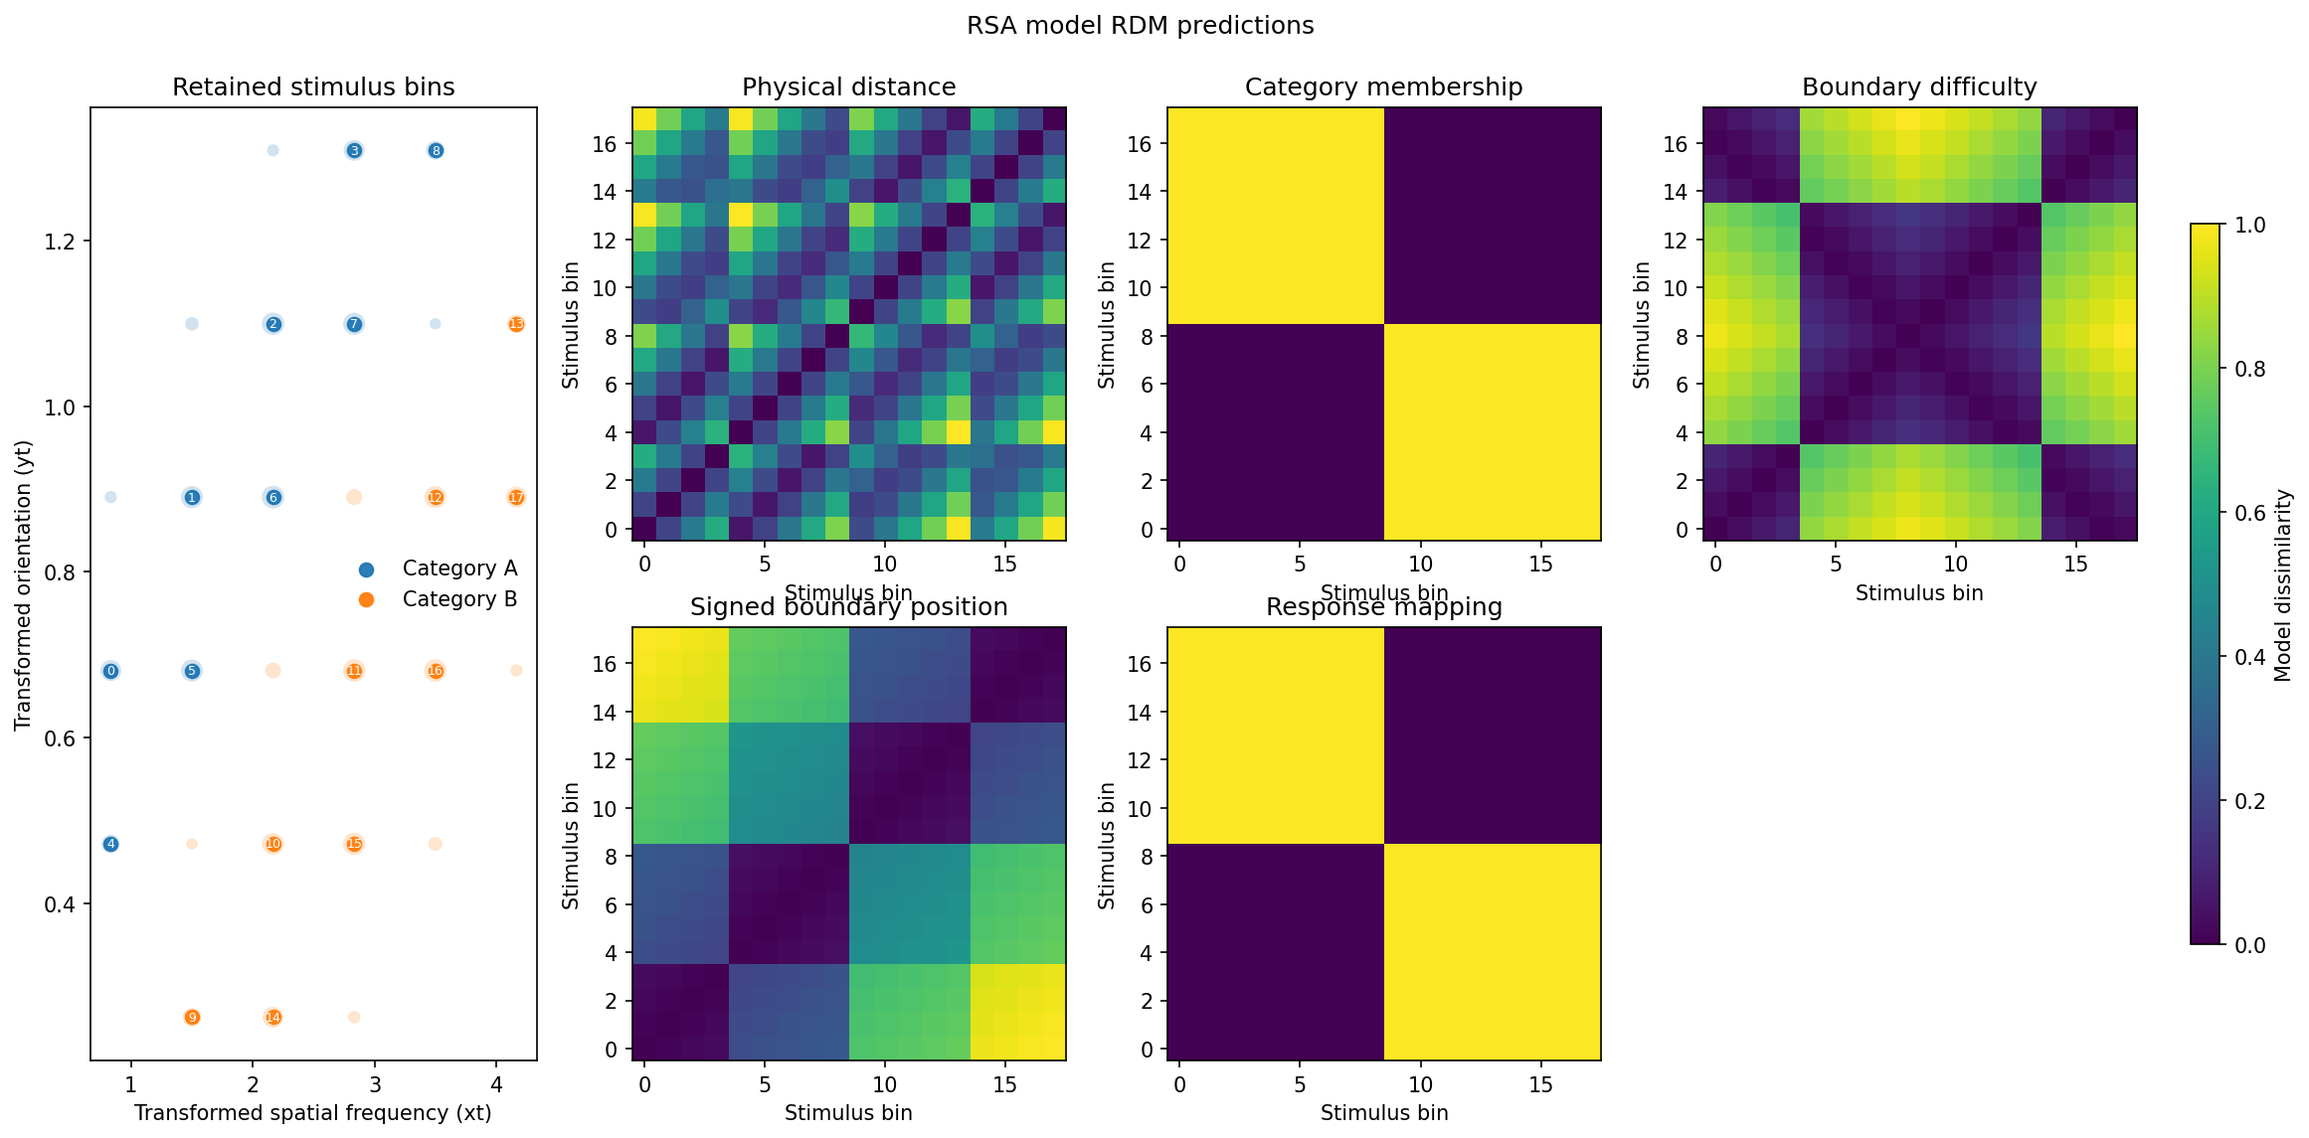
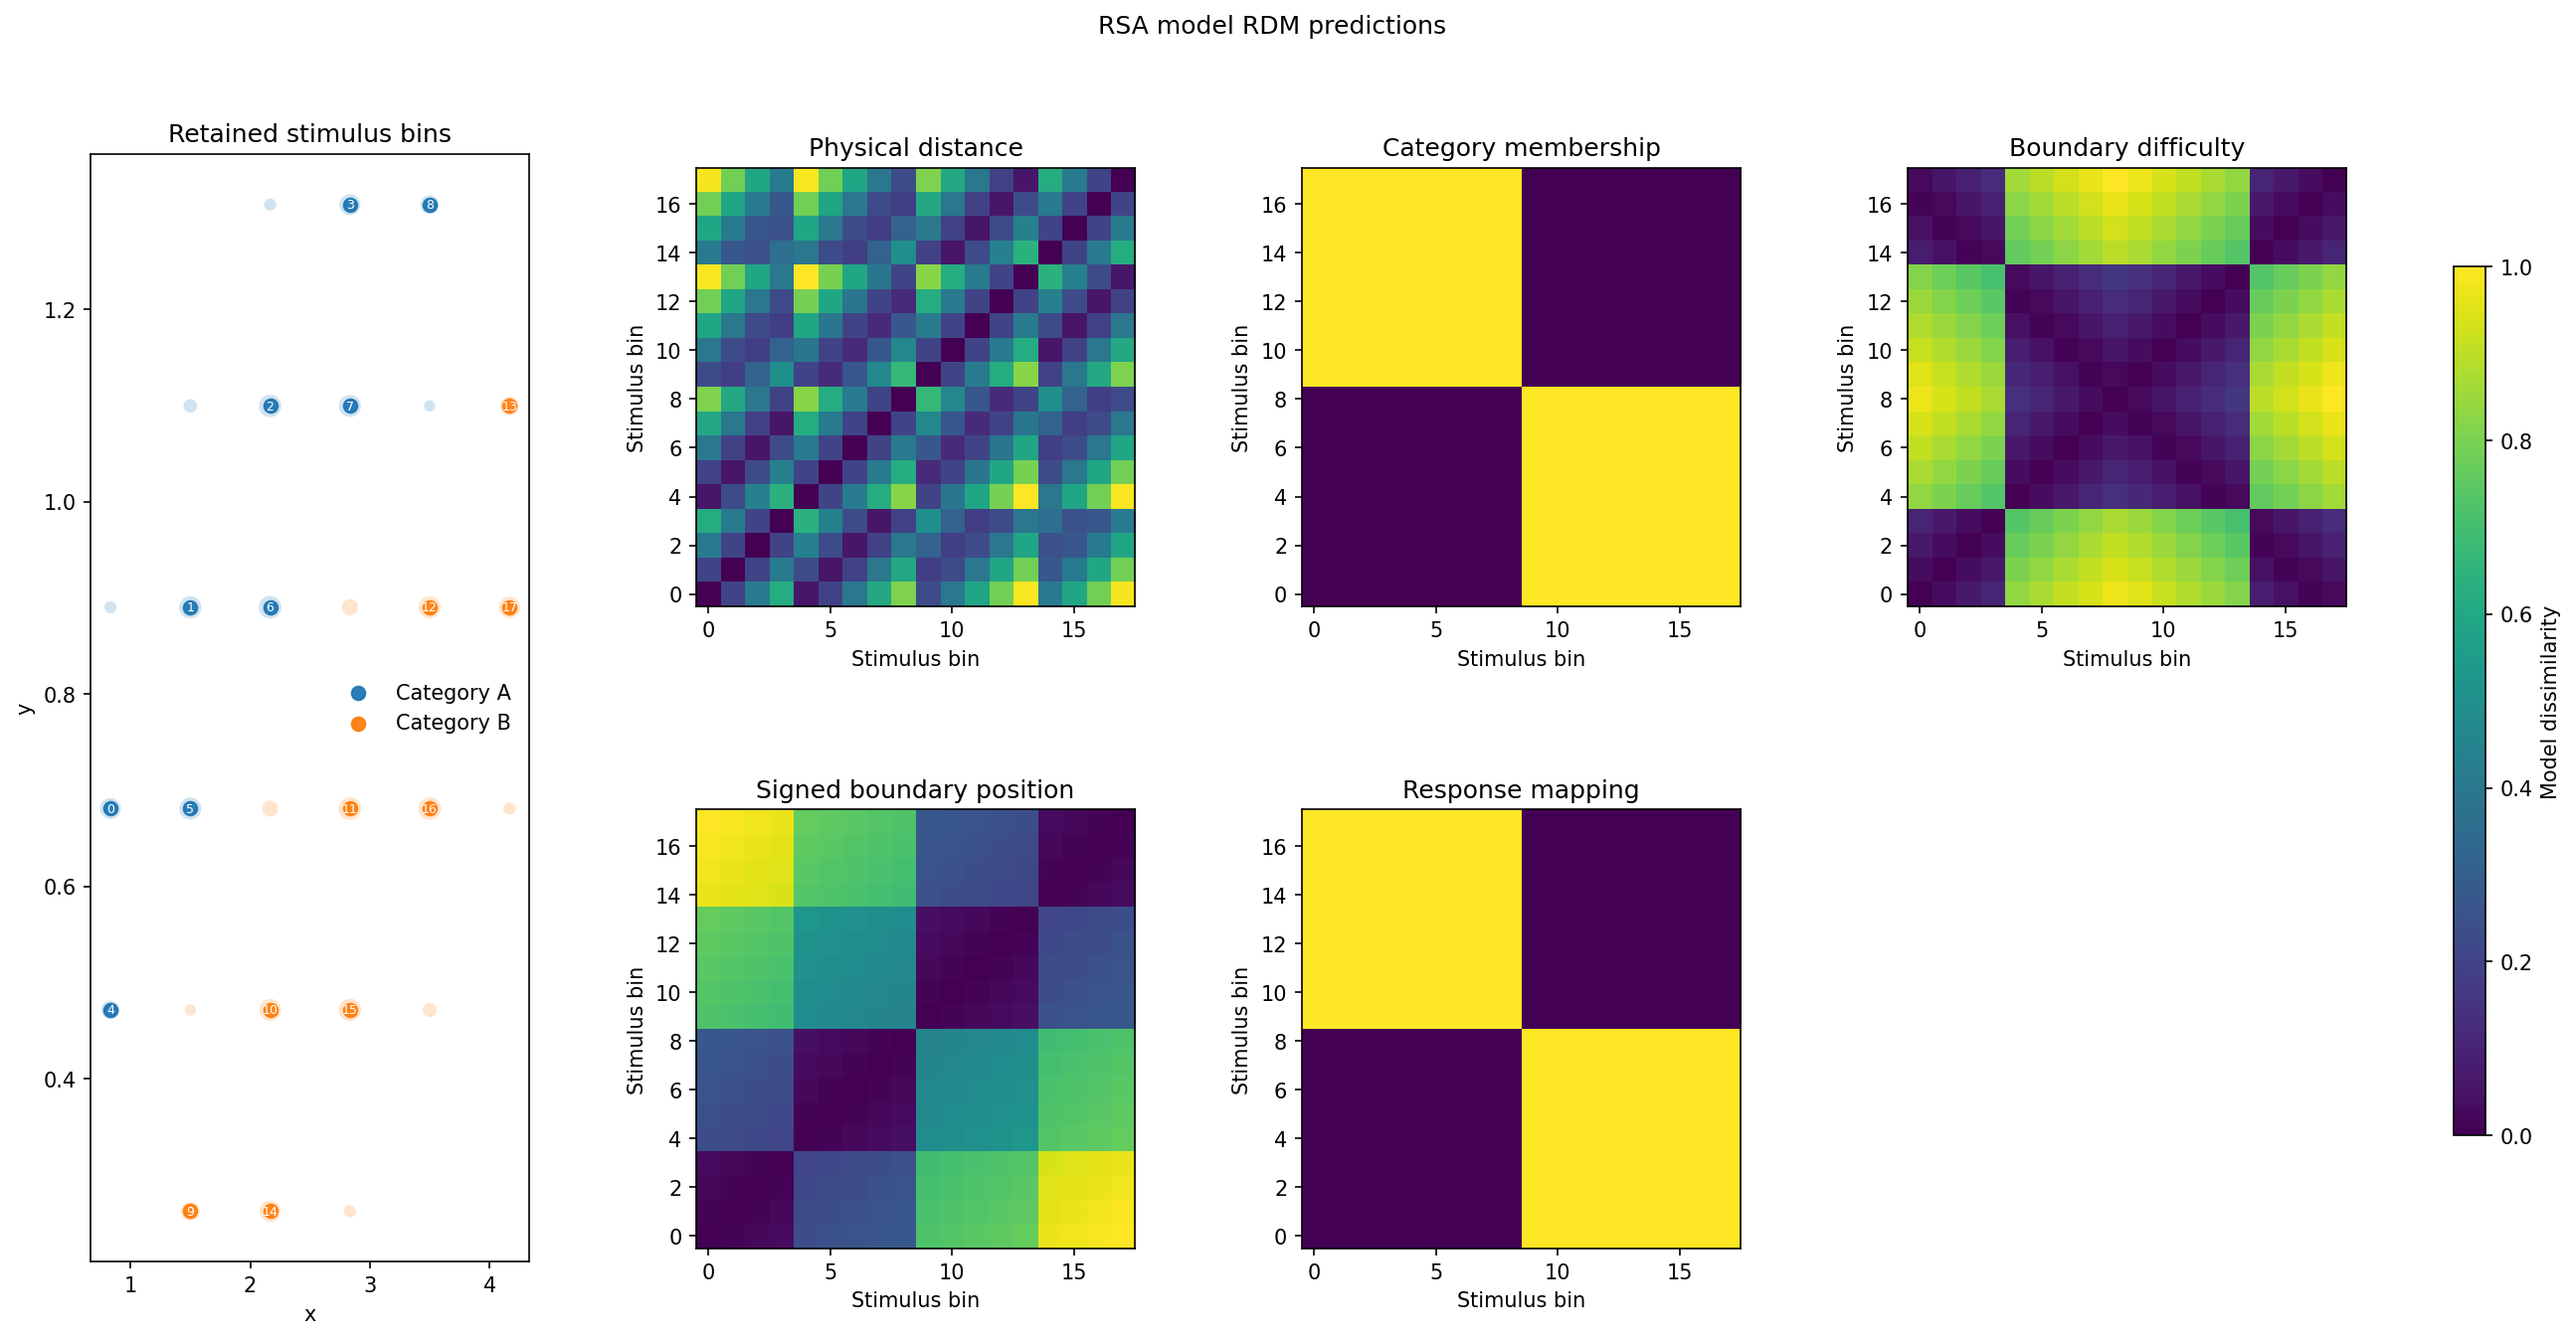
rsa fig touchup

diff --git a/code/rsa_model_predictions.py b/code/rsa_model_predictions.py
@@ -232,8 +232,17 @@ def plot_grid_diagnostics(diagnostics, selected_n, fig_path):
 
 
 def plot_model_predictions(all_bins, retained_bins, rdms, fig_path):
-    fig = plt.figure(figsize=(16, 7.8))
-    gs = fig.add_gridspec(2, 4, left=0.06, right=0.92, top=0.90, bottom=0.08)
+    fig = plt.figure(figsize=(18, 9.4))
+    gs = fig.add_gridspec(
+        2,
+        4,
+        left=0.06,
+        right=0.90,
+        top=0.88,
+        bottom=0.09,
+        wspace=0.38,
+        hspace=0.38,
+    )
     ax_space = fig.add_subplot(gs[:, 0])
     colors = {"A": "tab:blue", "B": "tab:orange"}
     for label, group in all_bins.groupby("category_label"):
@@ -264,8 +273,8 @@ def plot_model_predictions(all_bins, retained_bins, rdms, fig_path):
             va="center",
             color="white",
         )
-    ax_space.set_xlabel("Transformed spatial frequency (xt)")
-    ax_space.set_ylabel("Transformed orientation (yt)")
+    ax_space.set_xlabel("x")
+    ax_space.set_ylabel("y")
     ax_space.set_title("Retained stimulus bins")
     ax_space.legend(frameon=False, loc="best")
 
